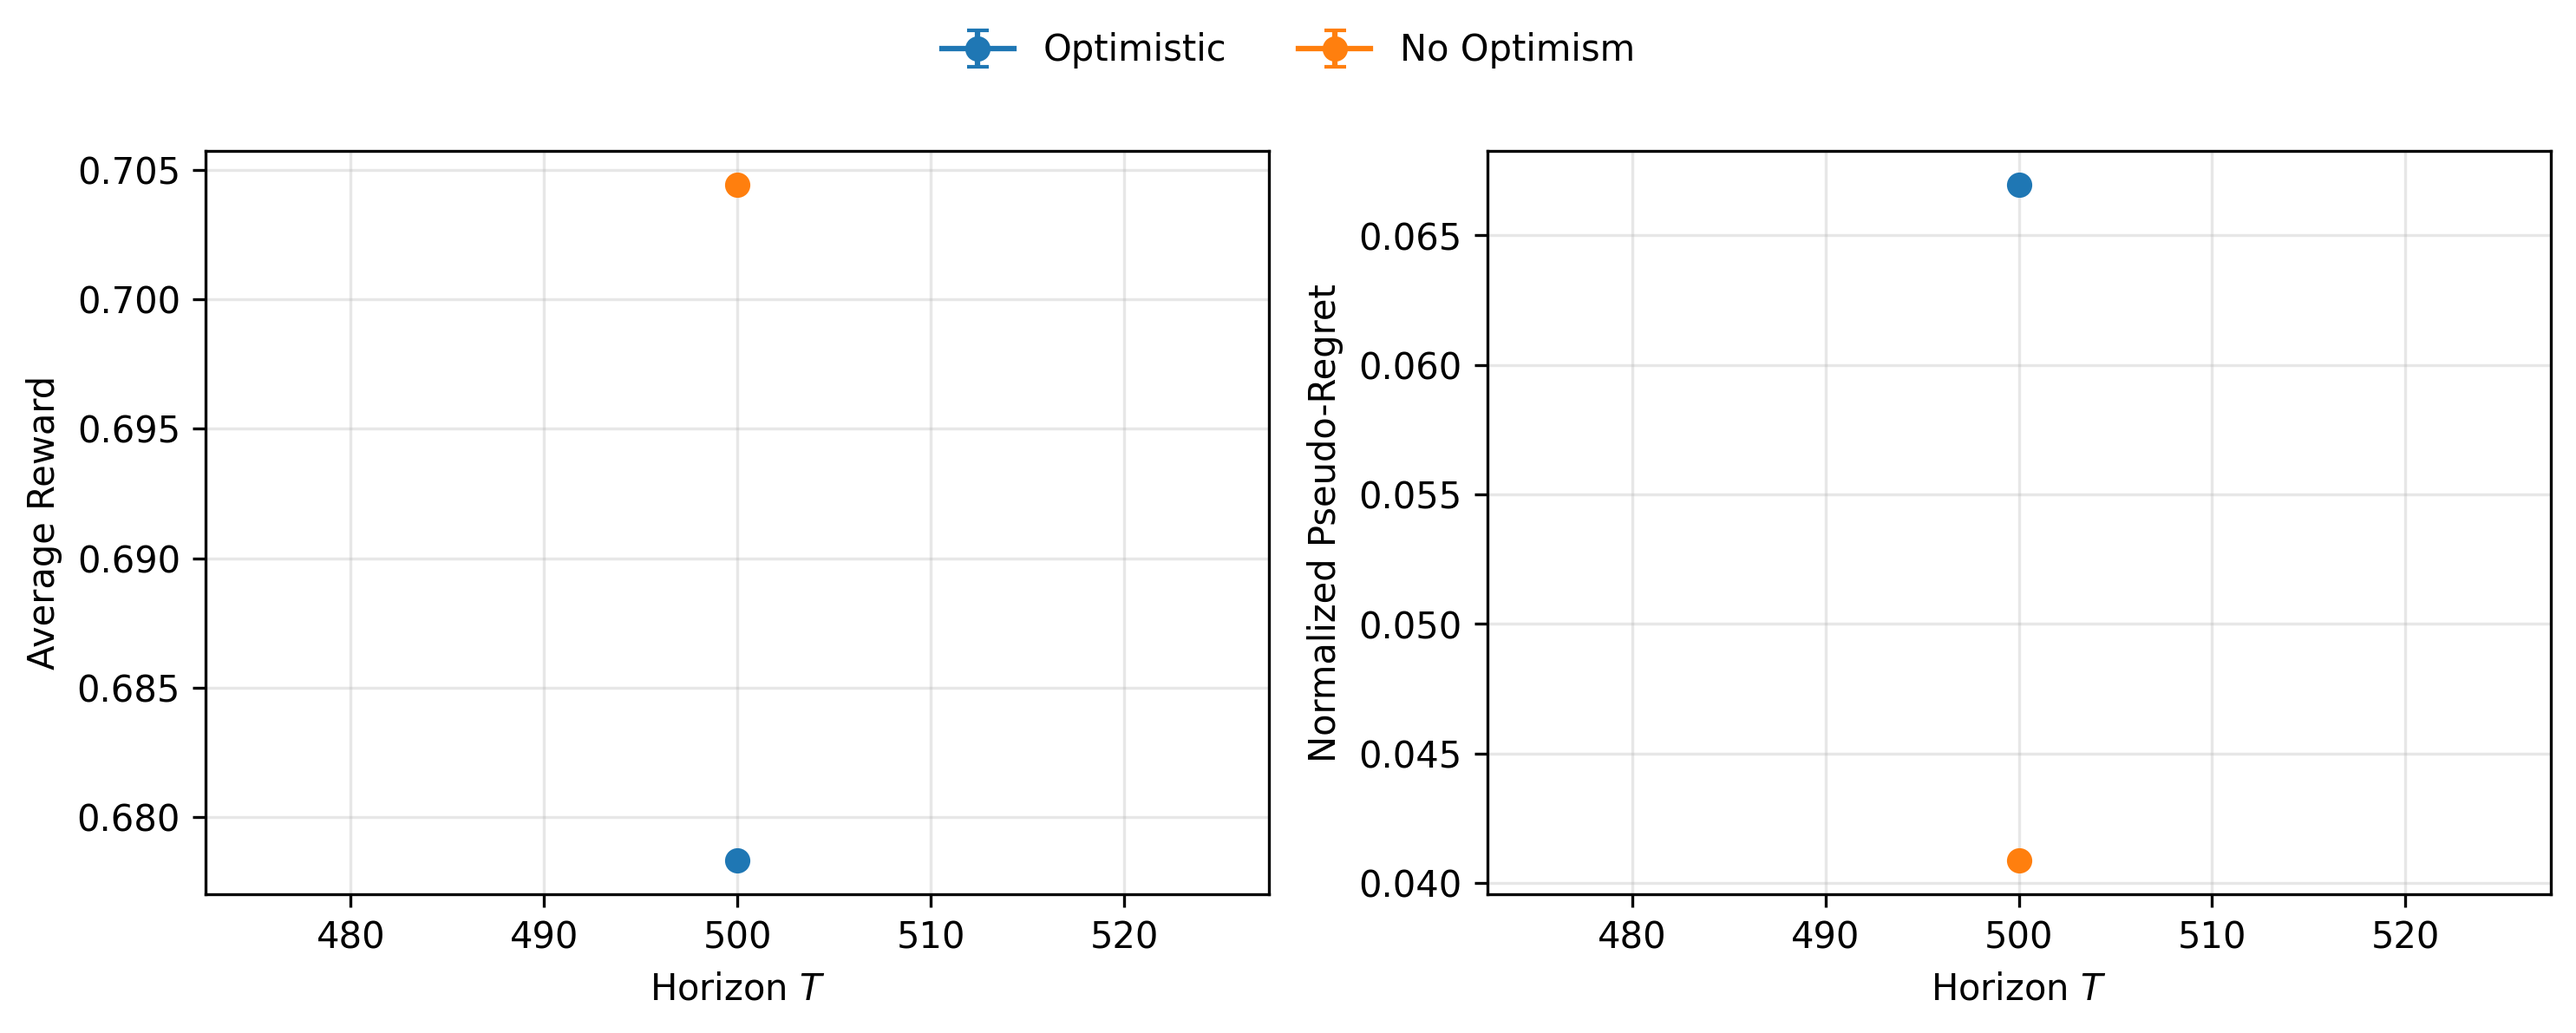
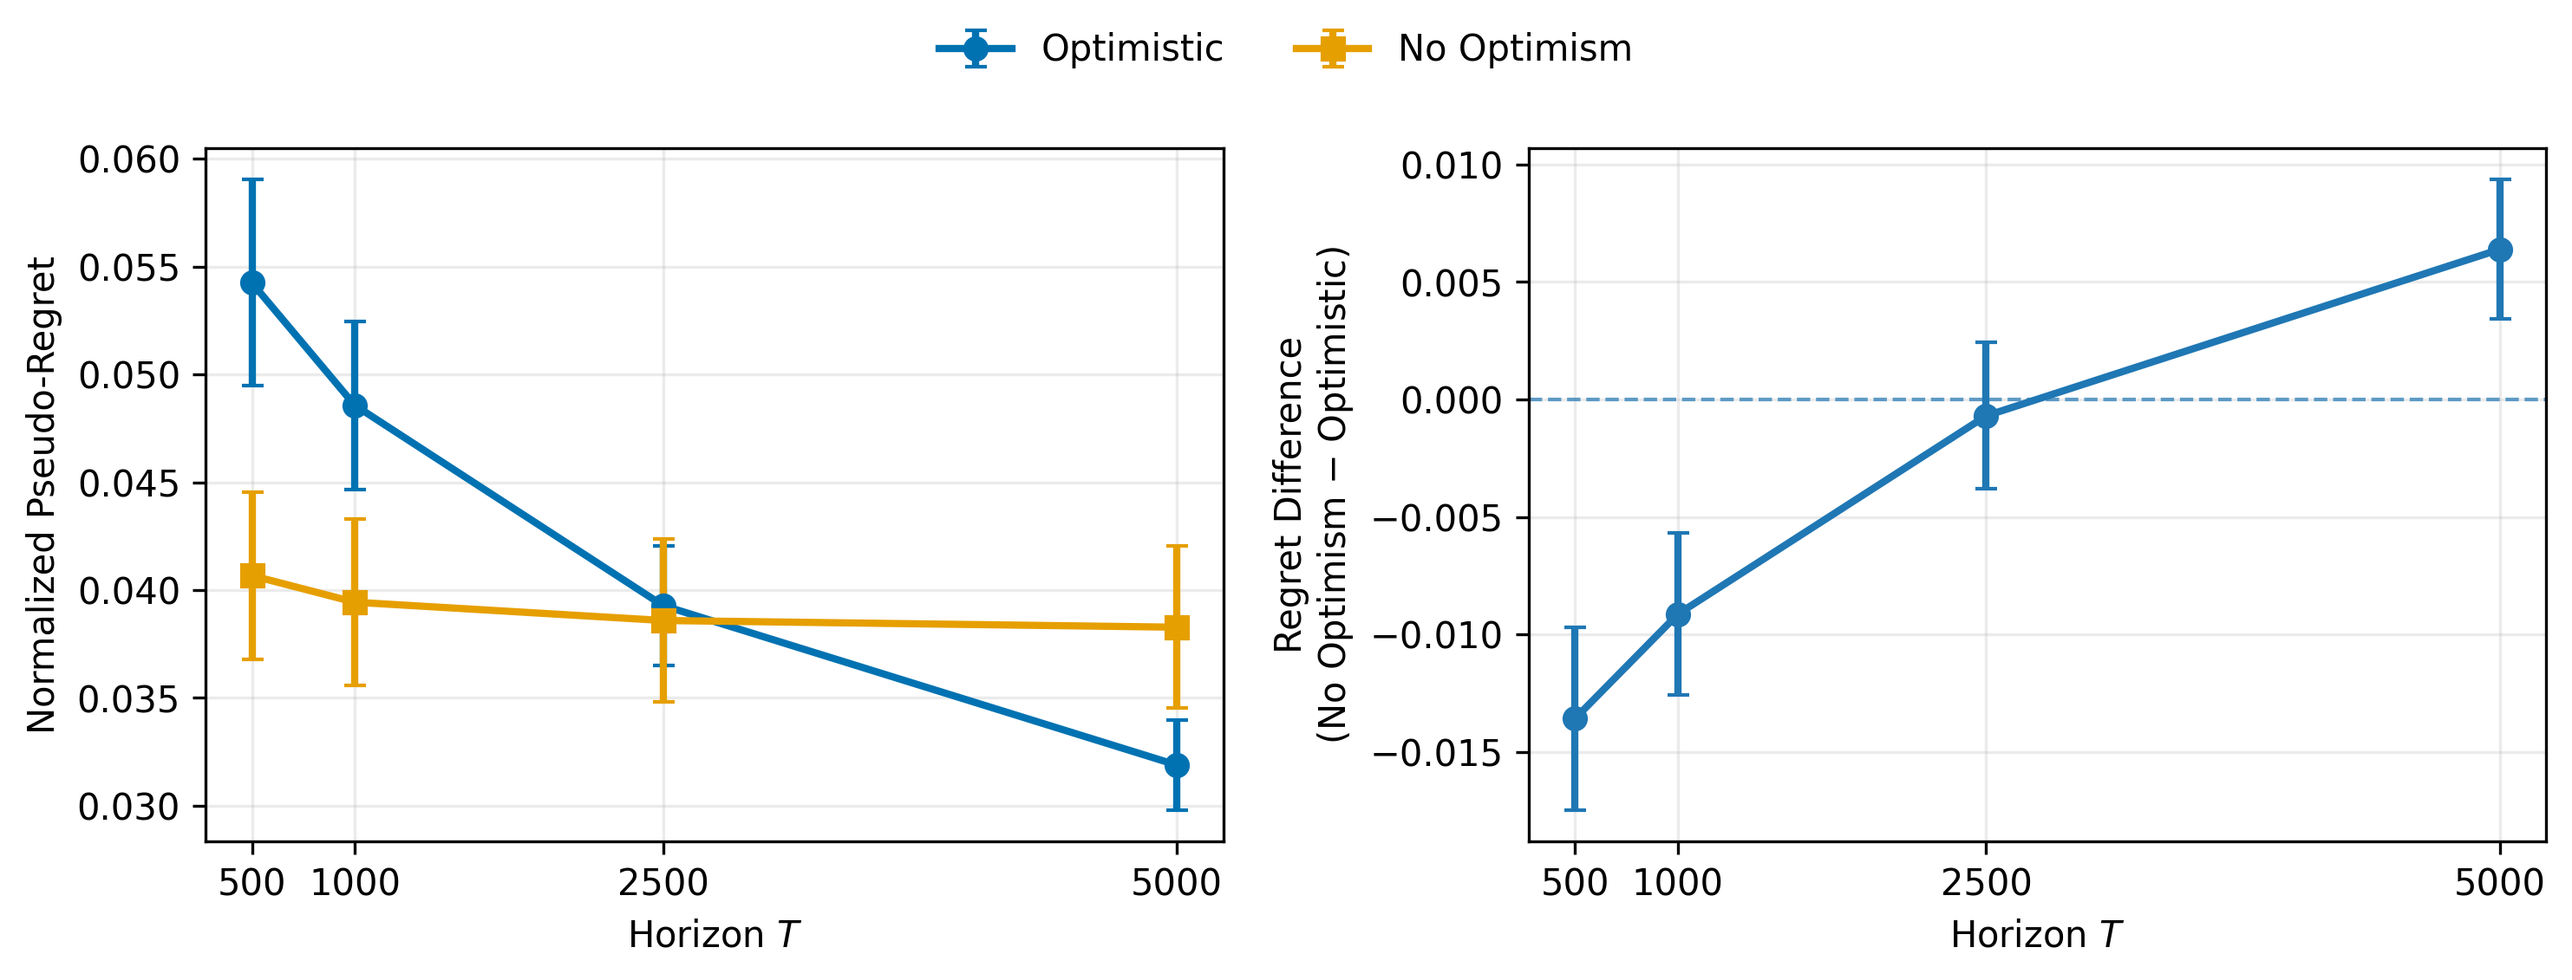
ablation 3 real world is done

diff --git a/codes/ablation_real_world1.py b/codes/ablation_real_world1.py
@@ -19,10 +19,10 @@ K = len(top_categories)
 theta_norm_bound = np.sqrt(K)
 
 PLANNING_HORIZONS = [1, 2, 5, 10, "full"]
-ABLATION_T = 200
+ABLATION_T = 400 # 200
 WINDOW_SIZE = 4
-ABLATION_N_USERS = 100
-ABLATION_N_RUNS = 5
+ABLATION_N_USERS = 1 # 100
+ABLATION_N_RUNS = 1 # 5
 MAX_EXPOSURE = 1
 
 
